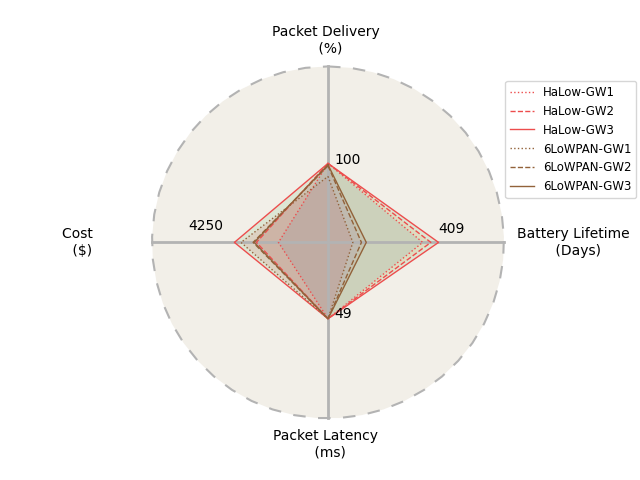
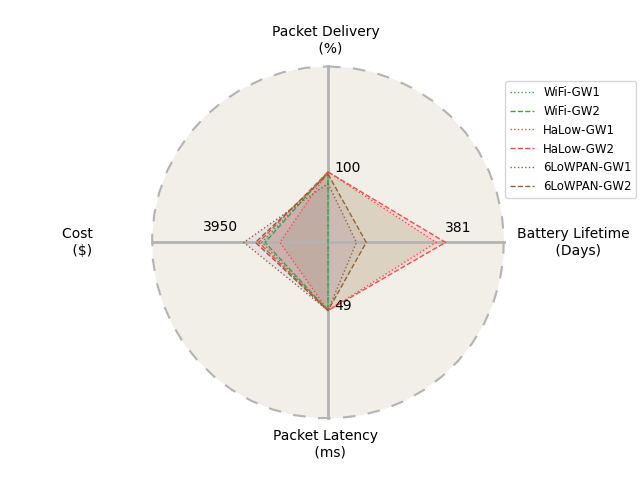
Final version

Changed region(s): [[0.3125, 0.3125, 0.75, 0.6875], [0.8438, 0.1562, 0.9688, 0.3438]]

diff --git a/plot.py b/plot.py
@@ -60,31 +60,31 @@ def selection(attributes, I):
     #print("Coefficients ", coefficients)
     return coefficients
 
-number_gateways = [3, 4, 5]
-use_case = "surveillance-constraint"
+number_gateways = [1, 2]
+use_case = "grid-constraint"
 attributes = []
 metrics_weights = [0.2, 0.2, 0.2, 0.2]
 
-results = [ [100.0, 17.37, 0.23, 1050], [100.0, 20.77, 0.11, 1000], [100.0, 22.2, 0.16, 1100]]
-"""
-results = [ [100.0, 86.44, 0.06999999999999999, 225600], [100.0, 88.0, 0.06999999999999999, 225700], [100.0, 88.41, 0.06999999999999999, 225800],
-            [91.302, 296.784, 139.11, 51750], [100.0, 384.581, 52.01, 52750], [100.0, 414.242, 47.019999999999996, 53750], 
-            [86.8885, 93.853, 10.38, 201700], [97.1615, 124.439, 6.38, 151900], [99.5412, 141.785, 6.39, 127100]]
+#results = [ [100.0, 17.37, 0.23, 1050], [100.0, 20.77, 0.11, 1000], [100.0, 22.2, 0.16, 1100]]
 
-results = [ [7.6303, 238.236, 175.10999999999999, 151300], [33.5706, 311.211, 144.33, 112300], [86.7547, 333.471, 155.69, 103300],
-            [100.0, 4539.88, 66.8160000000129, 1100], [100.0, 4539.88, 66.81600000000876, 2100], [100.0, 4540.09, 66.8160000000032, 3100]]
+results = [ [100.0, 470.16, 51.73, 74000], [100.0, 471.135, 42.160000000000004, 75000],
+            [95.78, 2327.91, 82.17599999991153, 12000], [99.63, 2327.93, 82.17599999993269, 13000]]
+
+"""
+results = [ [98.0, 78.25, 0.06999999999999999, 3100], [100.0, 88.0, 0.06999999999999999, 2950],
+            [100.0, 351.158, 49.29, 2250], [100.0, 381.408, 49.230000000000004, 3250],
+            [83.5154, 92.2132, 8.17, 3950], [96.9462, 123.989, 6.32, 3400]]
 
 results = [ [100.0, 465.532, 13.07, 704000], [100.0, 465.968, 62.55, 705000], [100.0, 466.418, 67.25, 706000],
             [96.88, 3070.81, 82.17599999991859, 102000], [100.0, 3070.81, 82.17599999994684, 103000], [99.47, 3069.52, 82.17599999997593, 104000]]
 """
 
-technologies_configuration = ["WiFi-GW3", "WiFi-GW4", "WiFi-GW5"]
-#technologies_configuration = ["WiFi-GW1", "WiFi-GW2", "WiFi-GW3", "HaLow-GW1", "HaLow-GW2", "HaLow-GW3", "6LoWPAN-GW1", "6LoWPAN-GW2", "6LoWPAN-GW3"]
-#technologies_configuration = ["HaLow-GW1", "HaLow-GW2", "HaLow-GW3", "LoRaWAN-GW1", "LoRaWAN-GW2", "LoRaWAN-GW3"]
-#technologies_configuration = ["HaLow-GW1", "HaLow-GW2", "HaLow-GW3", "LoRaWAN-GW1", "LoRaWAN-GW2", "LoRaWAN-GW3"]
+#technologies_configuration = ["WiFi-GW3", "WiFi-GW4", "WiFi-GW5"]
+#technologies_configuration = ["WiFi-GW1", "WiFi-GW2", "HaLow-GW1", "HaLow-GW2", "6LoWPAN-GW1", "6LoWPAN-GW2"]
+technologies_configuration = ["HaLow-GW1", "HaLow-GW2", "LoRaWAN-GW1", "LoRaWAN-GW2"]
 
-constraint_latency = 10
-constraint_lifetime = 7
+constraint_latency = 1000
+constraint_lifetime = 365
 
 for elem in results:
     if elem[2] < constraint_latency:

diff --git a/NS3-6LoWPAN/scratch/lora-periodic.cc b/NS3-6LoWPAN/scratch/lora-periodic.cc
@@ -64,6 +64,7 @@ main (int argc, char *argv[]) {
   int period = 60; //One packet per hour
   double distance = 500;
   std::string trafficType = "Unconfirmed";
+  double voltage = 3;
 
   bool energyRatio = true;
   bool successRate = false;
@@ -79,6 +80,7 @@ main (int argc, char *argv[]) {
   cmd.AddValue ("nGateways", "Number of gateways", nGateways);
   cmd.AddValue ("distance", "The distance of the area to simulate", distance);
   cmd.AddValue ("SF", "Fixed spreading factor", SF);
+  cmd.AddValue ("voltage", "voltage in Volts", voltage);
   cmd.AddValue ("codingRate", "Coding Rate", codingRate);
   cmd.AddValue ("mobileNodes", "Mobile nodes or not", mobileNodes);
   cmd.AddValue ("crc", "Cyclic Redundancy Check", crc);
@@ -287,7 +289,7 @@ main (int argc, char *argv[]) {
 
     // configure energy source
     basicSourceHelper.Set ("BasicEnergySourceInitialEnergyJ", DoubleValue (10000)); // Energy in Joules
-    basicSourceHelper.Set ("BasicEnergySupplyVoltageV", DoubleValue (3.3));
+    basicSourceHelper.Set ("BasicEnergySupplyVoltageV", DoubleValue (voltage));
 
     radioEnergyHelper.Set ("StandbyCurrentA", DoubleValue (0.0014)); // Idle mode
     radioEnergyHelper.Set ("TxCurrentA", DoubleValue (0.028));

diff --git a/methodology.py b/methodology.py
@@ -303,7 +303,7 @@ scenario_parameters_list = [{
     "battery_capacity": 2400,
     "mobile_nodes": 0,
     "battery_voltage": 3,
-    "simulation_time": 5,
+    "simulation_time": 2.5,
     "radio_environment": "urban"
     #"propagation_loss_model": "Cost231PropagationLossModel"
 }, {
@@ -345,7 +345,7 @@ scenario_parameters_list = [{
 }
 ]
 # 0: surveillance, 1: building-automation, 2: smart-grid, 3: vehicle-tracking,
-scenario_parameters = scenario_parameters_list[1]
+scenario_parameters = scenario_parameters_list[0]
 
 print(scenario_parameters)
 
@@ -359,7 +359,7 @@ metrics_weights = {
 }
 """
 # Weights of attributes (positive and sum = 1)
-metrics_weights = [0.2, 0.2, 0.2, 0.2]
+metrics_weights = [0.25, 0.25, 0.25, 0.25]
 
 # Indicate type of metric (1 for benefit and 0 for cost)
 I = [1, 1, 0, 0]

diff --git a/NS3-6LoWPAN/scratch/wifi-periodic.cc b/NS3-6LoWPAN/scratch/wifi-periodic.cc
@@ -364,7 +364,7 @@ int main (int argc, char *argv[]) {
       UdpEchoClientHelper echoClient1(ApInterface.GetAddress(0), echoPort);
       
       echoClient1.SetAttribute("MaxPackets", UintegerValue(10000));
-      echoClient1.SetAttribute("Interval", TimeValue(Seconds(0.1)));
+      echoClient1.SetAttribute("Interval", TimeValue(Seconds(0.05)));
       echoClient1.SetAttribute("PacketSize", UintegerValue(payloadSizeEcho));
 
       ApplicationContainer clientApp = echoClient1.Install(wifiProbingNode);
